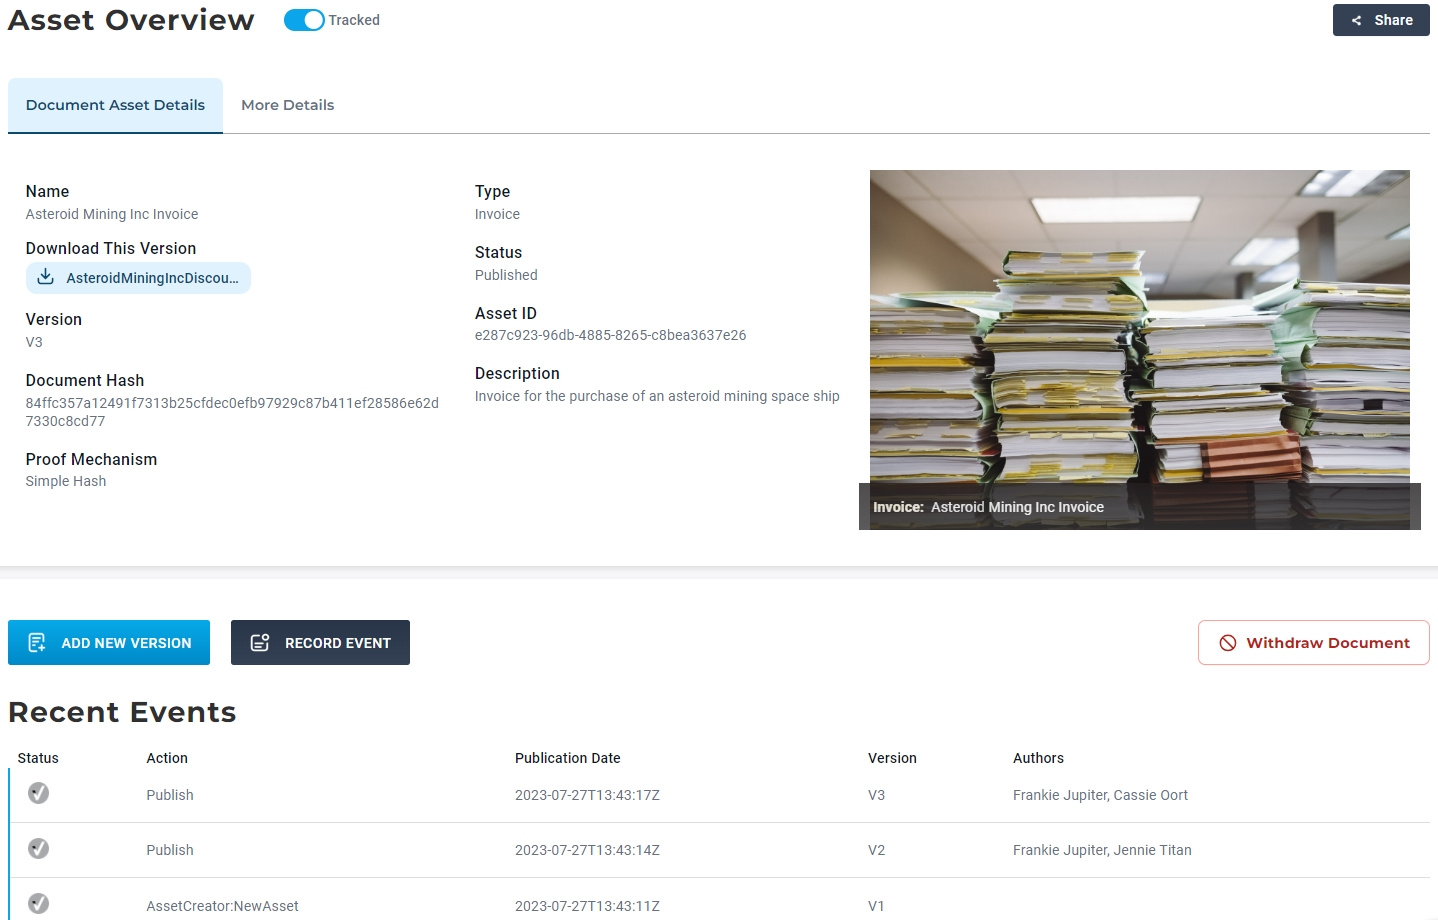
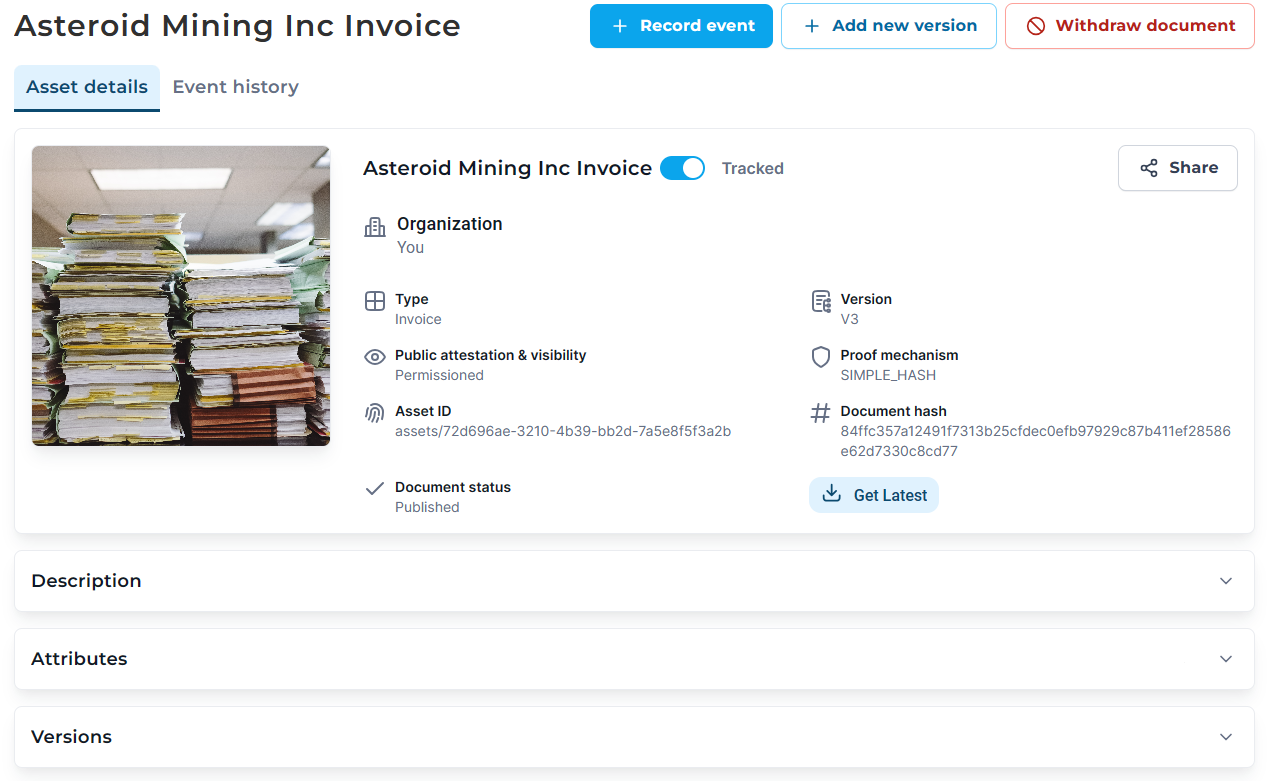
updated document profile event registration screenshots

diff --git a/content/platform/overview/registering-an-event-against-a-document-profile-asset/index.md b/content/platform/overview/registering-an-event-against-a-document-profile-asset/index.md
@@ -294,12 +294,12 @@ curl -v -X POST \
 1. Viewing Event details
 {{< tabs name="view_event" >}}
 {{{< tab name="UI" >}}
-The Event History can be seen in the Asset Overview from step 1, simply click on any Event row to view it.<br>
-The Document tab shows information about the document version that you are viewing and also provides a drag-and-drop box that allows you to check any locally stored versions of the document that you have against this specific version.
+The Event History can be seen in the Asset Overview from step 1, simply click on the Event History tab and then any Event row to view it.<br>
+The Overview tab shows the details of the Event including the version and document hash of this specific version.
 
 {{< img src="EventDetails.png" alt="Rectangle" caption="<em>Viewing an Event</em>" class="border-0" >}}
 
-The More Details tab provides information about the Event itself and includes a link to the transaction. It also includes any optional attributes that were included in the Event.
+The Event attributes and Asset attributes tabs contain any custom attributes that were added when the Event was registered.
 
 {{< img src="MoreEventDetails.png" alt="Rectangle" caption="<em>Viewing Event Attributes</em>" class="border-0" >}}
 
